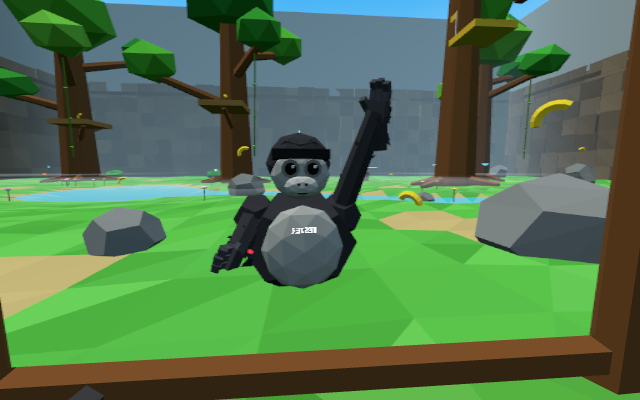
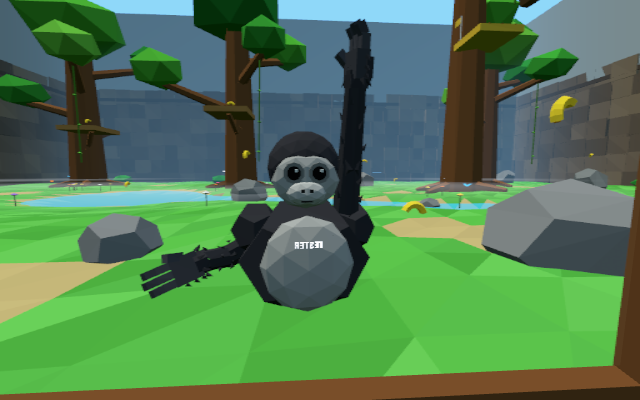
Joined IK arms with elbows + 10 cm hand drop, rounded head, even sky colour with night stars, wrist panel toggled by left stick click

diff --git a/main.js b/main.js
@@ -12,6 +12,10 @@ const rr = (a, b) => a + (b - a) * rnd();
 // ---------- constants ----------
 const HALF = 25, WALL_H = 18, CLIMB_H = 9;           // 50x50 clearing, wall 18 m, bottom 9 m climbable
 const HR = 0.07;                                     // hand collider radius
+const HAND_DROP = 0.1;                               // virtual hand (and its collider) sits 10 cm below the real controller: easier to reach the ground
+const ARM_L1 = 0.37, ARM_L2 = 0.37;                  // gorilla upper arm / forearm (IK bones)
+const SHOULDER = { x: 0.25, y: -0.4, z: 0.03 };      // shoulder joint relative to the head (yaw frame)
+const WRIST_LOCAL = new V3(0, 0, 0.072); // wrist point in hand (grip) space
 const BODY_OFF = 0.55, BODY_R = 0.35, HEAD_R = 0.18; // body sphere centre below head
 const GRAV = 9.8, MAX_JUMP = 7.0, VEL_MULT = 1.15;
 const WATER_Y = -0.12;
@@ -301,14 +305,16 @@ for (const [pos, yaw] of [[new V3(-6.3, 1.7, -4.6), 0.55], [new V3(-6.6, 8.1, -7
 }
 const worldMesh = new THREE.Mesh(world.build(), worldMat); scene.add(worldMesh);
 
-// ---------- sky, sun, moon, mist, fireflies ----------
-const skyMat = new THREE.ShaderMaterial({
-  side: THREE.BackSide, depthWrite: false, fog: false,
-  uniforms: { top: { value: new C3() }, hor: { value: new C3() } },
-  vertexShader: 'varying float h;void main(){h=normalize(position).y;gl_Position=projectionMatrix*modelViewMatrix*vec4(position,1.);}',
-  fragmentShader: 'varying float h;uniform vec3 top;uniform vec3 hor;void main(){gl_FragColor=vec4(mix(hor,top,smoothstep(0.,.55,h)),1.);}',
-});
-const sky = new THREE.Mesh(new THREE.SphereGeometry(300, 16, 10), skyMat); sky.renderOrder = -1; scene.add(sky);
+// ---------- sky colour, stars, sun, moon, mist, fireflies ----------
+// sky: one even colour per moment (scene.background, identical to the fog colour, so fogged far walls melt into it: no bands, corners or black cap)
+// stars: a few hundred points far beyond everything (no fog), faded in at dusk, out at dawn
+const starMat = new THREE.PointsMaterial({ size: 3, sizeAttenuation: false, vertexColors: true, transparent: true, opacity: 0, depthWrite: false, fog: false });
+const stars = (() => {
+  const n = 420, p = [], c = []; let h = 4242; const r = () => (h = (h * 16807) % 2147483647) / 2147483647;
+  for (let i = 0; i < n; i++) { const y = 0.04 + 0.96 * Math.sqrt(r()), ph = r() * Math.PI * 2, rr = Math.sqrt(1 - y * y), k = 0.55 + 0.45 * r(); p.push(Math.cos(ph) * rr * 250, y * 250, Math.sin(ph) * rr * 250); c.push(k, k, k * (0.92 + 0.08 * r())); }
+  const g = new THREE.BufferGeometry(); g.setAttribute('position', new THREE.Float32BufferAttribute(p, 3)); g.setAttribute('color', new THREE.Float32BufferAttribute(c, 3));
+  const m = new THREE.Points(g, starMat); m.frustumCulled = false; m.renderOrder = -1; m.visible = false; scene.add(m); return m;
+})();
 const sun = new THREE.Mesh(new THREE.IcosahedronGeometry(9, 1), new THREE.MeshBasicMaterial({ color: 0xfff3b0, fog: false })); scene.add(sun);
 const moon = new THREE.Mesh(new THREE.IcosahedronGeometry(6, 1), new THREE.MeshBasicMaterial({ color: 0xe6ecff, fog: false })); scene.add(moon);
 const mistTex = (() => { const c = document.createElement('canvas'); c.width = c.height = 64; const x = c.getContext('2d'); const gr = x.createRadialGradient(32, 32, 0, 32, 32, 32); gr.addColorStop(0, 'rgba(255,255,255,1)'); gr.addColorStop(1, 'rgba(255,255,255,0)'); x.fillStyle = gr; x.fillRect(0, 0, 64, 64); return new THREE.CanvasTexture(c); })();
@@ -425,7 +431,7 @@ function mirrorX(geo) { // right-hand copy of a left-hand model (flip x, keep tr
   for (let i = 0; i < p.length; i += 3) { p[i] = -p[i]; n[i] = -n[i]; }
   g.computeBoundingSphere(); return g;
 }
-// Hand in WebXR grip space (left hand): palm faces +x, fingers wrap forward (-z), thumb on top, forearm back (+z).
+// Hand in WebXR grip space (left hand): palm faces +x, fingers wrap forward (-z), thumb on top, wrist at +z (the IK forearm joins there).
 function buildHand() {
   const gb = new GorillaBuilder(); gb.h = 777; const SKIN = new C3(2.1, 2.1, 2.1), SKIN2 = new C3(1.7, 1.7, 1.7); // palm/fingers a shade lighter than the fur
   gb.add(new THREE.BoxGeometry(0.06, 0.11, 0.105), SKIN2, M4(new V3(0.002, 0, -0.01)), 1, 0.06);           // palm
@@ -435,14 +441,7 @@ function buildHand() {
     gb.add(new THREE.BoxGeometry(0.034, 0.03, 0.045), SKIN2, M4(new V3(0.008, y, -0.075 - len), EUL(0, -0.55, 0)), 1, 0.08);
   }
   gb.add(new THREE.BoxGeometry(0.034, 0.034, 0.07), SKIN, M4(new V3(0.03, 0.062, -0.04), EUL(0.3, -0.7, 0)), 1, 0.06); // thumb
-  const fa = new V3(0, -0.22, 1).normalize();
-  gb.add(new THREE.CylinderGeometry(0.05, 0.06, 0.17, 7, 1, true), FUR, M4(fa.clone().multiplyScalar(0.11), qFromTo(UP, fa)), 1, 0.1); // forearm
-  for (let i = 0; i < 16; i++) {                                                                         // short fur tufts, swept back along the forearm
-    const t = 0.05 + 0.15 * gb.noise(), ang = Math.PI * (0.45 + 1.1 * gb.noise());
-    const radial = new V3(Math.cos(ang), Math.sin(ang) * 0.9 - 0.15, 0).normalize();
-    const at = fa.clone().multiplyScalar(t).addScaledVector(radial, 0.048);
-    tuft(gb, at, radial.clone().multiplyScalar(0.55).addScaledVector(fa, 1), 0.03 + 0.015 * gb.noise(), 0.011);
-  }
+  gb.add(new THREE.CylinderGeometry(0.052, 0.05, 0.05, 7, 1, true).rotateX(Math.PI / 2), FUR, M4(new V3(0, 0, 0.05)), 1, 0.08); // wrist stub (forearm overlaps it)
   for (const [y, z] of [[0.035, 0.02], [-0.03, 0.025], [0.0, -0.02], [0.04, -0.03], [-0.04, -0.025]]) tuft(gb, new V3(-0.042, y, z), new V3(-0.6, 0.15, 1), 0.026, 0.01);
   for (let i = 0; i < 7; i++) { const ang = i / 7 * Math.PI * 2 + 0.3, r = new V3(Math.cos(ang) * 0.75, Math.sin(ang), 0); tuft(gb, new V3(0, 0, 0.045).addScaledVector(r, 0.055), r.clone().multiplyScalar(0.8).add(new V3(0, 0, 0.9)), 0.032, 0.012); } // shaggy wrist cuff
   for (const z of [-0.035, 0.0, 0.03]) tuft(gb, new V3(-0.01, -0.058, z), new V3(-0.2, -1, 0.8), 0.028, 0.011); // hair along the outer edge
@@ -457,9 +456,7 @@ const gorillaGeo = (() => {
   for (let i = 0; i < 9; i++) { const a = -0.9 + 1.8 * i / 8; tuft(body, new V3(Math.sin(a) * 0.3, 0.26 - Math.abs(a) * 0.08, 0.1 + Math.cos(a) * 0.12), new V3(Math.sin(a), 0.6, 0.8), 0.06, 0.022); }
   // head: big rounded fur dome, darker brow, light grey face plate, round eye rings, big dark eyes, muzzle with nostrils, small mouth
   const head = new GorillaBuilder(); head.h = 57;
-  head.add(new THREE.IcosahedronGeometry(0.175, 1), FUR, M4(new V3(0, 0.025, 0.02), null, new V3(1.05, 0.98, 1.0)), 1, 0.07);
-  head.add(new THREE.DodecahedronGeometry(0.09, 0), FUR, M4(new V3(0, 0.11, 0.0), null, new V3(1.5, 0.8, 1.4)), 1, 0.07); // crown
-  head.add(new THREE.BoxGeometry(0.29, 0.05, 0.08), FUR_DARK, M4(new V3(0, 0.085, -0.125), EUL(0.2, 0, 0)), 1, 0.05);      // brow ridge
+  head.add(new THREE.IcosahedronGeometry(0.175, 2), FUR, M4(new V3(0, 0.03, 0.02), null, new V3(1.05, 1.03, 1.0)), 1, 0.05); // smooth rounded dome (no cap-like brow band)
   head.add(new THREE.IcosahedronGeometry(0.12, 1), PLATE, M4(new V3(0, -0.02, -0.115), null, new V3(1.3, 1.08, 0.52)), 0, 0.03); // face plate
   for (const sx of [-1, 1]) {
     head.add(new THREE.CylinderGeometry(0.047, 0.047, 0.02, 10), RING, M4(new V3(0.055 * sx, 0.02, -0.165), EUL(Math.PI / 2, 0, 0)), 0, 0.02);
@@ -470,11 +467,18 @@ const gorillaGeo = (() => {
   for (const sx of [-1, 1]) head.add(new THREE.BoxGeometry(0.016, 0.012, 0.012), HOLE, M4(new V3(0.018 * sx, -0.052, -0.215)), 0, 0); // nostrils
   head.add(new THREE.BoxGeometry(0.05, 0.008, 0.012), HOLE, M4(new V3(0, -0.098, -0.205)), 0, 0); // mouth
   // arms: long and chunky, with tufts (unit length along +z, scaled to reach the hand)
-  const arm = new GorillaBuilder(); arm.h = 99;
-  arm.add(new THREE.CylinderGeometry(0.068, 0.09, 1, 7, 1, true).translate(0, 0.5, 0).rotateX(Math.PI / 2), FUR, null, 1, 0.08);
-  for (let i = 0; i < 10; i++) { const a = i * 2.4, z = 0.12 + 0.07 * i, r = new V3(Math.cos(a), Math.sin(a), 0); tuft(arm, r.clone().multiplyScalar(0.07).setZ(z), r.clone().multiplyScalar(0.6).setZ(1), 0.045, 0.016); }
-  const handL = buildHand().scale(1.2, 1.2, 1.2); // big gorilla hands
-  return { body: body.build(), head: head.build().scale(1.22, 1.22, 1.22), arm: arm.build(), hand: handL, handL, handR: mirrorX(handL) };
+  // arms: upper arm (shoulder ball -> elbow) and forearm (elbow ball -> wrist), built at nominal length along +z, posed by two-bone IK
+  const upper = new GorillaBuilder(); upper.h = 99;
+  upper.add(new THREE.DodecahedronGeometry(0.088, 0), FUR, null, 1, 0.06);
+  upper.add(new THREE.CylinderGeometry(0.074, 0.09, ARM_L1 + 0.04, 7, 1, true).translate(0, (ARM_L1 + 0.04) / 2 - 0.02, 0).rotateX(Math.PI / 2), FUR, null, 1, 0.08);
+  for (let i = 0; i < 9; i++) { const a = i * 2.4, z = 0.05 + (ARM_L1 - 0.08) * i / 8, r = new V3(Math.cos(a), Math.sin(a), 0); tuft(upper, r.clone().multiplyScalar(0.078).setZ(z), r.clone().multiplyScalar(0.6).setZ(1), 0.045, 0.016); }
+  const fore = new GorillaBuilder(); fore.h = 101;
+  fore.add(new THREE.DodecahedronGeometry(0.08, 0), FUR, M4(null, null, new V3(1, 1, 1.1)), 1, 0.06); // elbow
+  fore.add(new THREE.CylinderGeometry(0.057, 0.074, ARM_L2 + 0.05, 7, 1, true).translate(0, (ARM_L2 + 0.05) / 2, 0).rotateX(Math.PI / 2), FUR, null, 1, 0.08); // runs 5 cm into the hand
+  for (let i = 0; i < 9; i++) { const a = i * 2.4 + 1, z = 0.05 + (ARM_L2 - 0.1) * i / 8, r = new V3(Math.cos(a), Math.sin(a), 0); tuft(fore, r.clone().multiplyScalar(0.068 - 0.03 * z).setZ(z), r.clone().multiplyScalar(0.6).setZ(1), 0.04, 0.014); }
+  for (const a of [0.6, 2.2, 3.8, 5.3]) tuft(fore, new V3(Math.cos(a) * 0.05, Math.sin(a) * 0.05, -0.05), new V3(Math.cos(a) * 0.5, Math.sin(a) * 0.5, -1), 0.04, 0.016); // shaggy elbow
+  const handL = buildHand().scale(1.3, 1.3, 1.3); // big gorilla hands
+  return { body: body.build(), head: head.build().scale(1.22, 1.22, 1.22), upper: upper.build(), fore: fore.build(), hand: handL, handL, handR: mirrorX(handL) };
 })();
 function gorillaMat(color) {
   const m = new THREE.MeshLambertMaterial({ vertexColors: true, flatShading: true, color });
@@ -501,31 +505,47 @@ function nameSprite(text) {
   s.userData.set(text); return s;
 }
 const _qFlipY = new Q().setFromAxisAngle(UP, Math.PI);
+// two-bone IK: shoulder -> elbow -> wrist. Elbow bends outward/back/down (pole), stretches uniformly past full reach, never flips for close hands.
+const _ik = { dir: new V3(), perp: new V3(), pole: new V3(), S: new V3(), W: new V3(), E: new V3(), off: new V3() };
+function solveElbow(S, T, pole, out) {
+  const dir = _ik.dir.subVectors(T, S); let d = dir.length(); if (d < 1e-5) { dir.set(0, -1, 0); d = 1e-5; } else dir.divideScalar(d);
+  const k = Math.max(1, d / (ARM_L1 + ARM_L2)), a1 = ARM_L1 * k, a2 = ARM_L2 * k;
+  const dc = Math.max(Math.abs(a1 - a2) + 0.08, Math.min(d, a1 + a2 - 1e-4));
+  const a = (a1 * a1 - a2 * a2 + dc * dc) / (2 * dc), h = Math.sqrt(Math.max(0, a1 * a1 - a * a));
+  const perp = _ik.perp.copy(pole).addScaledVector(dir, -pole.dot(dir));
+  if (perp.lengthSq() < 1e-3) { perp.set(0, -1, 0).addScaledVector(dir, dir.y); if (perp.lengthSq() < 1e-4) perp.set(1, 0, 0); }
+  perp.normalize();
+  return out.copy(S).addScaledVector(dir, a).addScaledVector(perp, h);
+}
+function boneTo(m, a, b, L) { m.position.copy(a); m.scale.set(1, 1, Math.max(0.03, a.distanceTo(b)) / L); m.lookAt(b); }
+// pose one whole arm (upper, fore, hand) from the head pose (yaw quat yq), the hand position h and optional hand rotation q
+function poseArm(i, upper, fore, hand, head, yq, h, q) {
+  const sx = i ? 1 : -1, S = _ik.S.copy(_ik.off.set(SHOULDER.x * sx, SHOULDER.y, SHOULDER.z).applyQuaternion(yq)).add(head), W = _ik.W;
+  if (q) W.copy(WRIST_LOCAL).applyQuaternion(q).add(h);
+  else { const d = _ik.dir.subVectors(h, S); if (d.lengthSq() < 1e-6) d.set(0, -1, 0); d.normalize(); W.copy(h).addScaledVector(d, -WRIST_LOCAL.z); }
+  const E = solveElbow(S, W, _ik.pole.set(0.9 * sx, -0.55, 0.6).applyQuaternion(yq), _ik.E);
+  boneTo(upper, S, E, ARM_L1); boneTo(fore, E, W, ARM_L2);
+  if (hand) { hand.position.copy(h); if (q) hand.quaternion.copy(q); else hand.quaternion.copy(fore.quaternion).multiply(_qFlipY); } // no hand rotation sent: fingers continue the forearm
+}
 function makeGorilla(color, name) {
   const mat = gorillaMat(color);
   const g = { mat, color: new C3(color), group: new THREE.Group(), it: false };
   g.body = new THREE.Mesh(gorillaGeo.body, mat); g.head = new THREE.Mesh(gorillaGeo.head, mat);
   g.hands = [new THREE.Mesh(gorillaGeo.handL, mat), new THREE.Mesh(gorillaGeo.handR, mat)];
-  g.arms = [new THREE.Mesh(gorillaGeo.arm, mat), new THREE.Mesh(gorillaGeo.arm, mat)];
+  g.arms = [new THREE.Mesh(gorillaGeo.upper, mat), new THREE.Mesh(gorillaGeo.upper, mat)];
+  g.fores = [new THREE.Mesh(gorillaGeo.fore, mat), new THREE.Mesh(gorillaGeo.fore, mat)];
   g.tag = nameSprite(name);
   g.tag.position.set(0, 0.15, -0.352); g.tag.rotation.set(0, Math.PI, 0); // on the upper chest, facing forward (-z)
   g.body.add(g.tag);
-  g.group.add(g.body, g.head, ...g.hands, ...g.arms); scene.add(g.group);
+  g.group.add(g.body, g.head, ...g.hands, ...g.arms, ...g.fores); scene.add(g.group);
   g.setColor = c => { g.color.set(c); g.apply(g.it); };
   g.apply = it => { g.it = it; mat.color.copy(it ? LAVA : g.color); mat.emissive.set(it ? 0xff2200 : 0x000000); mat.emissiveIntensity = it ? 0.55 : 0; g.tag.userData.set(g.tag.userData.text, it); };
-  const yq = new Q(), sh = new V3(), e = new THREE.Euler(), d = new V3(), ye = new THREE.Euler(), off = new V3();
+  const yq = new Q(), e = new THREE.Euler(), ye = new THREE.Euler();
   g.pose = (head, hq, hl, hr, ql, qr) => {
     e.setFromQuaternion(hq, 'YXZ'); yq.setFromEuler(ye.set(0, e.y, 0));
     g.head.position.copy(head); g.head.quaternion.copy(hq);
     g.body.position.copy(head); g.body.position.y -= BODY_OFF - 0.05; g.body.quaternion.copy(yq);
-    [hl, hr].forEach((h, i) => {
-      g.hands[i].position.copy(h);
-      sh.copy(off.set(i ? 0.29 : -0.29, -0.3, 0).applyQuaternion(yq)).add(head);
-      const len = Math.max(0.05, d.subVectors(h, sh).length());
-      g.arms[i].position.copy(sh); g.arms[i].scale.set(1, 1, len); g.arms[i].lookAt(h);
-      const q = i ? qr : ql;
-      if (q) g.hands[i].quaternion.copy(q); else g.hands[i].quaternion.copy(g.arms[i].quaternion).multiply(_qFlipY); // no hand rotation sent: fingers point along the arm
-    });
+    poseArm(0, g.arms[0], g.fores[0], g.hands[0], head, yq, hl, ql); poseArm(1, g.arms[1], g.fores[1], g.hands[1], head, yq, hr, qr);
   };
   g.dispose = () => { scene.remove(g.group); mat.dispose(); g.tag.material.map.dispose(); g.tag.material.dispose(); g.tag.geometry.dispose(); };
   return g;
@@ -541,12 +561,17 @@ const ME = {
 const handMat = gorillaMat(ME.color); // first-person hands: palm, 3 fingers + thumb, furry forearm
 const myHands = [new THREE.Mesh(gorillaGeo.handL, handMat), new THREE.Mesh(gorillaGeo.handR, handMat)];
 myHands.forEach(h => scene.add(h));
+// first-person arms (upper arm + elbow + forearm joined to the hand), on their own layer so the mirror shows the full avatar instead
+const FP_LAYER = 6; camera.layers.enable(FP_LAYER);
+const myArms = [0, 1].map(() => { const u = new THREE.Mesh(gorillaGeo.upper, handMat), f = new THREE.Mesh(gorillaGeo.fore, handMat); u.layers.set(FP_LAYER); f.layers.set(FP_LAYER); scene.add(u, f); return { u, f }; });
+const _fpE = new THREE.Euler(), _fpY = new THREE.Euler(), _fpQ = new Q();
 const wristCv = document.createElement('canvas'); wristCv.width = 256; wristCv.height = 128;
 const wristTex = new THREE.CanvasTexture(wristCv); wristTex.colorSpace = THREE.SRGBColorSpace;
 const wrist = new THREE.Mesh(new THREE.PlaneGeometry(0.14, 0.07), new THREE.MeshBasicMaterial({ map: wristTex, fog: false }));
 wrist.position.set(0, 0.05, 0.1); wrist.rotation.x = -Math.PI / 2 + 0.35; myHands[0].add(wrist);
 const muteBtn = new THREE.Mesh(new THREE.CylinderGeometry(0.018, 0.018, 0.012, 10), new THREE.MeshBasicMaterial({ color: 0x33dd55, fog: false }));
 muteBtn.position.set(0.055, 0.045, 0.06); myHands[0].add(muteBtn);
+wrist.visible = muteBtn.visible = false; // hidden until the left thumbstick is clicked
 
 // ---------- input: real WebXR, desktop fallback, or scripted fake XR for tests ----------
 const DESK = { yaw: 0, pitch: -0.15, keys: new Set(), ph: 0, cph: 0, jumpT: 9, jumpLatch: false };
@@ -563,9 +588,10 @@ function readVR(frame) {
     const gp = frame.getPose(src.gripSpace, ref); if (!gp) continue;
     const p = gp.transform.position, o = gp.transform.orientation;
     inp.hands[i].p.set(p.x, p.y, p.z); inp.hands[i].q.set(o.x, o.y, o.z, o.w);
-    const b = src.gamepad && src.gamepad.buttons; inp.hands[i].grip = !!(b && b[1] && b[1].value > 0.5); inp.hands[i].src = src; found[i] = true;
+    const b = src.gamepad && src.gamepad.buttons; inp.hands[i].grip = !!(b && b[1] && b[1].value > 0.5); inp.hands[i].stick = !!(b && b[3] && b[3].pressed); inp.hands[i].src = src; found[i] = true;
   }
   for (let i = 0; i < 2; i++) if (!found[i]) inp.hands[i].p.copy(inp.head).add(new V3(i ? 0.25 : -0.25, -0.7, -0.2));
+  for (const h of inp.hands) h.p.y -= HAND_DROP; // virtual hand hangs a bit below the controller
   return inp;
 }
 function readDesk(dt) {
@@ -601,7 +627,8 @@ function readDesk(dt) {
 function readFake() {
   const f = MM.fake, inp = emptyInput();
   inp.head.fromArray(f.head || [0, 1.6, 0]); if (f.headQ) inp.headQ.fromArray(f.headQ);
-  for (let i = 0; i < 2; i++) { const h = f.hands && f.hands[i]; if (h) { inp.hands[i].p.fromArray(h.p); inp.hands[i].grip = !!h.grip; if (h.q) inp.hands[i].q.fromArray(h.q); } }
+  for (let i = 0; i < 2; i++) { const h = f.hands && f.hands[i]; if (h) { inp.hands[i].p.fromArray(h.p); inp.hands[i].grip = !!h.grip; if (h.q) inp.hands[i].q.fromArray(h.q); inp.hands[i].stick = !!h.stick; } }
+  for (const h of inp.hands) h.p.y -= HAND_DROP; // same offset as real controllers
   return inp;
 }
 
@@ -873,8 +900,8 @@ function tagCheck(handsW) {
 
 // ---------- day / night (10 min cycle from a shared clock) ----------
 const DAY = { phase: 0, day: 1 };
-const C_TOP_D = new C3('#3fa2f2'), C_HOR_D = new C3('#c4ecff'), C_TOP_N = new C3('#070b24'), C_HOR_N = new C3('#18264a'), C_DUSK = new C3('#ff9a5a');
-const _ct = new C3(), _ch = new C3(), _sd = new V3();
+const C_SKY_D = new C3('#86c8f6'), C_SKY_N = new C3('#1b2a56'), C_DUSK = new C3('#ff9a5a'); // day: the old zenith/horizon blend as one colour; night: dark navy, never black
+const _ch = new C3(), _sd = new V3();
 function dayPhase() { return MM.timeOverride != null ? MM.timeOverride : ((((Date.now() + NET.clockOff) / 1000) % CYCLE) + CYCLE) % CYCLE / CYCLE; }
 function updateSky(camPos) {
   const ph = dayPhase(), a = ph * Math.PI * 2, s = Math.sin(a);
@@ -883,8 +910,8 @@ function updateSky(camPos) {
   _sd.set(Math.cos(a), s, 0.35).normalize();
   sun.position.copy(camPos).addScaledVector(_sd, 160); moon.position.copy(camPos).addScaledVector(_sd, -160);
   sun.visible = s > -0.15; moon.visible = s < 0.15;
-  _ct.copy(C_TOP_N).lerp(C_TOP_D, day); _ch.copy(C_HOR_N).lerp(C_HOR_D, day).lerp(C_DUSK, dusk);
-  skyMat.uniforms.top.value.copy(_ct); skyMat.uniforms.hor.value.copy(_ch); sky.position.copy(camPos);
+  _ch.copy(C_SKY_N).lerp(C_SKY_D, day).lerp(C_DUSK, dusk * 0.75);
+  starMat.opacity = clamp(1 - day * 2.2, 0, 1); stars.visible = starMat.opacity > 0.01; stars.position.copy(camPos);
   scene.fog.color.copy(_ch); scene.background = scene.fog.color;
   sunLight.position.copy(_sd).multiplyScalar(s > 0 ? 30 : -30);
   sunLight.color.set(0xb8c8ff).lerp(new C3(0xfff0d0), day).lerp(C_DUSK, dusk * 0.5); sunLight.intensity = 0.35 + 1.75 * day;
@@ -995,9 +1022,13 @@ function update(dt, frame) {
     else if (!h.vine) { const q = nearest(handsW[i], 0.2); if (q.col && q.d < HR) handsW[i].addScaledVector(normalOf(q.col, handsW[i]), HR - q.d); }
     myHands[i].position.copy(handsW[i]); myHands[i].quaternion.copy(inp.hands[i].q);
   }
-  // wrist mute button: touch it with the right hand
+  _fpE.setFromQuaternion(inp.headQ, 'YXZ'); _fpQ.setFromEuler(_fpY.set(0, _fpE.y, 0));
+  for (let i = 0; i < 2; i++) poseArm(i, myArms[i].u, myArms[i].f, null, headW, _fpQ, handsW[i], inp.hands[i].q);
+  // left thumbstick click (edge) shows/hides the wrist info panel and its mic dot
+  const stick = !!inp.hands[0].stick; if (stick && !MM._stickPrev) { wrist.visible = muteBtn.visible = !wrist.visible; wristDirty = true; } MM._stickPrev = stick;
+  // wrist mute button: touch it with the right hand (only while the panel is shown)
   myHands[0].updateMatrixWorld(true); muteBtn.getWorldPosition(_bw);
-  const near = handsW[1].distanceTo(_bw) < 0.05;
+  const near = muteBtn.visible && handsW[1].distanceTo(_bw) < 0.05;
   if (near && !MM._btnLatch && now - (MM._btnT || 0) > 600) { setMute(!VOICE.muted); MM._btnT = now; }
   MM._btnLatch = near;
   const feet = headW.clone(); feet.y -= BODY_OFF + BODY_R;
@@ -1047,7 +1078,7 @@ MM.place = (x, y, z) => { const inp = MM.fake ? readFake() : emptyInput(); rig.p
 MM.headW = () => (lastInp ? lastInp.head.clone() : new V3(0, 1.6, 0)).add(rig.position);
 MM.handsW = () => handsW.map(h => h.toArray());
 MM.muteBtnW = () => { myHands[0].updateMatrixWorld(true); return muteBtn.getWorldPosition(new V3()).toArray(); };
-MM.myHands = myHands;
+MM.myHands = myHands; MM.wristShown = () => wrist.visible && muteBtn.visible; MM.skyColor = () => scene.background.getHexString(); MM.starsOp = () => (stars.visible ? starMat.opacity : 0); MM.stars = stars; MM.myArms = myArms; MM.HAND_DROP = HAND_DROP; MM.ARM = { L1: ARM_L1, L2: ARM_L2, SHOULDER, WRIST_LOCAL };
 MM.setMute = setMute; MM.joinNet = joinNet; MM.startAudio = startAudio; MM.AU = AU; MM.startVoice = startVoice;
 MM.renderInfo = () => ({ calls: renderer.info.render.calls, triangles: renderer.info.render.triangles, geometries: renderer.info.memory.geometries });
 MM.remoteList = () => [...NET.remotes.values()].map(r => ({ id: r.id, name: r.name, tag: r.avatar.tag.userData.text, color: r.color, visible: r.avatar.group.visible, head: r.headPos.toArray(), it: NET.infected.has(r.id), voice: !!r.voice, pannerPos: r.voice ? [r.voice.pn.positionX.value, r.voice.pn.positionY.value, r.voice.pn.positionZ.value] : null }));

diff --git a/test/t.js b/test/t.js
@@ -19,7 +19,7 @@ const HELPERS = () => {
       return maxY;
     },
     hw(i) { return MM.handsW()[i]; },
-    handTo(i, w) { const P = MM.rig.position; const f = MM.fake; f.hands[i].p = [w[0] - P.x, w[1] - P.y, w[2] - P.z]; },
+    handTo(i, w) { const P = MM.rig.position; const f = MM.fake; f.hands[i].p = [w[0] - P.x, w[1] - P.y + MM.HAND_DROP, w[2] - P.z]; }, // fake = controller pose; virtual hand sits HAND_DROP lower
   };
 };
 
@@ -80,7 +80,7 @@ const LOCAL_TRANSPORT = () => {
       T.run(0.3, t => { const z = -0.45 + (t / 0.3) * 0.9; T.set([-0.25, -0.98, z], [0.25, -0.98, z]); });
       T.set([-0.25, -0.55, 0.45], [0.25, -0.55, 0.45]); T.run(0.12);
     }
-    T.idle(); T.run(0.8); out.z1 = MM.headW().z;
+    T.idle(); T.run(1.8); out.z1 = MM.headW().z; // lower virtual hands push a bit longer: let the glide settle
     // arms idle, no input: must not move
     const z2 = MM.headW().z; T.run(1); out.drift = Math.abs(MM.headW().z - z2);
     // push down hard = jump
@@ -91,6 +91,16 @@ const LOCAL_TRANSPORT = () => {
   });
   ok(loco.z0 - loco.z1 > 1.5, `hand-push locomotion moves the player forward ${(loco.z0 - loco.z1).toFixed(2)} m in 4 arm strokes`);
   ok(loco.drift < 0.02, `no movement without arm swings (drift ${loco.drift.toFixed(3)} m)`);
+  const wr = await A.p.evaluate(() => {
+    const r = {}; MM.PH.freeze = true; T.idle(); MM.step(1 / 72); r.def = MM.wristShown();
+    const click = () => { MM.fake.hands[0].stick = true; MM.step(1 / 72); const held = MM.wristShown(); MM.step(1 / 72); MM.step(1 / 72); const stillHeld = MM.wristShown(); MM.fake.hands[0].stick = false; MM.step(1 / 72); return [held, stillHeld]; };
+    // hidden: touching where the mic dot would be does nothing
+    const b = MM.muteBtnW(), P = MM.rig.position, m0 = MM.VOICE.muted; MM.fake.hands[1].p = [b[0] - P.x, b[1] - P.y + MM.HAND_DROP, b[2] - P.z]; MM.step(1 / 72); MM.step(1 / 72); r.hiddenNoMute = MM.VOICE.muted === m0; T.idle(); MM.step(1 / 72);
+    r.c1 = click(); r.c2 = click(); r.right = (() => { MM.fake.hands[1].stick = true; MM.step(1 / 72); const v = MM.wristShown(); MM.fake.hands[1].stick = false; MM.step(1 / 72); return v; })();
+    MM.PH.freeze = false; return r;
+  });
+  ok(!wr.def && wr.hiddenNoMute, 'wrist info panel and mic dot are hidden by default (and the hidden dot can\'t be bumped)');
+  ok(wr.c1[0] && wr.c1[1] && !wr.c2[0] && !wr.c2[1] && !wr.right, 'left thumbstick click toggles the wrist panel + mic dot (edge-triggered: holding doesn\'t flicker; right stick does nothing)');
   ok(loco.jump > 0.35, `push down + release launches a jump (+${loco.jump.toFixed(2)} m)`);
   const climb = await A.p.evaluate(() => {
     const r = {}; const g = MM.terrainH;
@@ -155,6 +165,7 @@ const LOCAL_TRANSPORT = () => {
     const r = {}; MM.timeOverride = 0.25; MM.render(); r.noon = { sun: MM.sunVisible(), moon: MM.moonVisible(), ff: MM.firefliesOp(), sunI: MM.sunI(), fog: MM.fogColor() };
     MM.timeOverride = 0.75; MM.render(); r.night = { sun: MM.sunVisible(), moon: MM.moonVisible(), ff: MM.firefliesOp(), sunI: MM.sunI(), fog: MM.fogColor() };
     MM.timeOverride = 0.5; MM.render(); r.dusk = MM.fogColor();
+    MM.timeOverride = 0.25; MM.render(); r.noon.sky = MM.skyColor(); r.noon.stars = MM.starsOp(); MM.timeOverride = 0.75; MM.render(); r.night.sky = MM.skyColor(); r.night.stars = MM.starsOp(); r.starR = MM.stars.geometry.boundingSphere ? MM.stars.geometry.boundingSphere.radius : (MM.stars.geometry.computeBoundingSphere(), MM.stars.geometry.boundingSphere.radius); r.starN = MM.stars.geometry.attributes.position.count; r.far = MM.camera.far; r.fogFar = MM.scene.fog.far; MM.timeOverride = 0.5; MM.render(); r.duskSky = MM.skyColor(); r.duskStars = MM.starsOp(); r.skyMeshes = 0; MM.scene.traverse(o => { if (o.isMesh && o.material && o.material.side === MM.THREE.BackSide) r.skyMeshes++; });
     r.additiveMeshes = []; MM.scene.traverse(o => { if (o.isMesh && o.material && o.material.blending === MM.THREE.AdditiveBlending) r.additiveMeshes.push(o.geometry.type); }); r.raysApi = typeof MM.raysOp;
     MM.timeOverride = null; MM.render(); r.phase = MM.DAY.phase; r.expected = ((Date.now() / 1000) % 600) / 600;
     const b0 = MM.birdPos(), u0 = MM.butterPos(); const t0 = performance.now(); while (performance.now() - t0 < 300) { } MM.render(); r.birdMoved = Math.hypot(...MM.birdPos().map((v, i) => v - b0[i])); r.butterMoved = Math.hypot(...MM.butterPos().map((v, i) => v - u0[i])); r.birdY = b0[1];
@@ -163,6 +174,11 @@ const LOCAL_TRANSPORT = () => {
   ok(daynight.noon.sun && !daynight.noon.moon && daynight.noon.ff === 0 && daynight.night.moon && !daynight.night.sun && daynight.night.ff > 0.9, 'day/night: sun by day; moon + glowing fireflies at night');
   ok(daynight.additiveMeshes.length === 0 && daynight.raysApi === 'undefined', `sun shafts / god rays removed (additive meshes in scene: ${daynight.additiveMeshes.length})`);
   ok(daynight.night.sunI < daynight.noon.sunI / 3 && daynight.noon.fog !== daynight.night.fog && daynight.dusk !== daynight.noon.fog, `sky, fog and light change (sun ${daynight.noon.sunI.toFixed(2)}→${daynight.night.sunI.toFixed(2)}, fog #${daynight.noon.fog}→#${daynight.night.fog}, dusk #${daynight.dusk})`);
+  const lum = h => { const v = parseInt(h, 16); return 0.2126 * (v >> 16) + 0.7152 * (v >> 8 & 255) + 0.0722 * (v & 255); };
+  ok(daynight.skyMeshes === 0 && daynight.noon.sky === daynight.noon.fog && daynight.night.sky === daynight.night.fog && daynight.duskSky === daynight.dusk, `sky is one even colour, identical to the fog (no gradient dome / seams): noon #${daynight.noon.sky}, dusk #${daynight.duskSky}, night #${daynight.night.sky}`);
+  ok(lum(daynight.night.sky) > 25 && parseInt(daynight.night.sky.slice(4), 16) > parseInt(daynight.night.sky.slice(0, 2), 16), `night sky is dark navy, not black (#${daynight.night.sky}, luminance ${lum(daynight.night.sky).toFixed(0)}/255)`);
+  ok(daynight.night.stars > 0.9 && daynight.noon.stars === 0 && daynight.duskStars > 0.2 && daynight.duskStars < daynight.night.stars, `stars: ${daynight.starN} points, shown at night (${daynight.night.stars.toFixed(2)}), fading in at dusk (${daynight.duskStars.toFixed(2)}), hidden by day`);
+  ok(daynight.starR > daynight.fogFar * 2 && daynight.starR < daynight.far * 0.8, `stars sit beyond the world and fog (${daynight.starR.toFixed(0)} m) and inside the far plane (${daynight.far} m)`);
   ok(Math.abs(daynight.phase - daynight.expected) < 0.003, `time of day comes from the shared clock (10 min cycle), phase ${daynight.phase.toFixed(4)}`);
   ok(daynight.birdMoved > 0.1 && daynight.butterMoved > 0.02 && daynight.birdY > 14, `birds fly overhead (y≈${daynight.birdY.toFixed(1)} m) and butterflies flutter (moved ${daynight.birdMoved.toFixed(2)} / ${daynight.butterMoved.toFixed(2)} m)`);
   // audio graph: ambience sources exist and are positional
@@ -213,17 +229,49 @@ const LOCAL_TRANSPORT = () => {
   // gorilla look (Gorilla Tag style): dark fur in the player's colour, light grey face/chest plates, 3 fingers + thumb, furry forearms
   const gor = await A.p.evaluate(() => {
     const av = MM.MIRROR.avatar, tri = m => m.geometry.attributes.position.count / 3, r = {};
-    r.tris = tri(av.body) + tri(av.head) + 2 * tri(av.arms[0]) + 2 * tri(av.hands[0]); r.handTris = tri(MM.myHands[0]);
+    r.tris = tri(av.body) + tri(av.head) + 2 * tri(av.arms[0]) + 2 * tri(av.fores[0]) + 2 * tri(av.hands[0]); r.handTris = tri(MM.myHands[0]);
     const fur = m => { const f = m.geometry.attributes.fur.array; let a = 0; for (const v of f) a += v; return [a, f.length]; };
     r.headFur = fur(av.head); r.bodyFur = fur(av.body); r.handFurAll = fur(MM.myHands[0])[0] === fur(MM.myHands[0])[1];
     r.defaultColor = MM.ME.color; r.tagOnChest = av.tag.parent === av.body && av.tag.position.z < -0.3; r.tagFilter = av.tag.material.map.magFilter === MM.THREE.NearestFilter;
     r.handsDiffer = MM.myHands[0].geometry !== MM.myHands[1].geometry; const bb = new MM.THREE.Box3().setFromBufferAttribute(MM.myHands[0].geometry.attributes.position); r.handLen = bb.max.z - bb.min.z;
+    { const P = av.head.geometry.attributes.position.array, c = [0, 0.03 * 1.22, 0.02 * 1.22], R = [0.175 * 1.05 * 1.22, 0.175 * 1.03 * 1.22, 0.175 * 1.22]; let worst = 0; for (let k = 0; k < P.length; k += 3) if (P[k + 1] > 0.14) worst = Math.max(worst, Math.hypot((P[k] - c[0]) / R[0], (P[k + 1] - c[1]) / R[1], (P[k + 2] - c[2]) / R[2])); r.headBulge = worst; }
     return r;
   });
   ok(gor.headFur[0] > 0 && gor.headFur[0] < gor.headFur[1] && gor.bodyFur[0] < gor.bodyFur[1] && gor.handFurAll, `gorilla has player-coloured fur plus fixed light grey face and chest plates (head ${gor.headFur[1] - gor.headFur[0]}/${gor.headFur[1]} plate verts)`);
   ok(/^#[0-3][0-9a-f][0-3][0-9a-f][0-3][0-9a-f]$/i.test(gor.defaultColor), `default fur colour is near-black (${gor.defaultColor})`);
   ok(gor.tagOnChest && gor.tagFilter, 'name tag is pixel-style text on the gorilla\'s chest');
-  ok(gor.handsDiffer && gor.handLen > 0.3, `first-person hands: left/right models with fingers, thumb and furry forearm (${gor.handLen.toFixed(2)} m long, ${gor.handTris} tris)`);
+  ok(gor.handsDiffer && gor.handLen > 0.2, `first-person hands: left/right models with fingers and thumb (${gor.handLen.toFixed(2)} m long, ${gor.handTris} tris)`);
+  // arms: one joined limb (shoulder -> elbow -> wrist -> hand) at every reach, elbow out/back, hands hang HAND_DROP below the controller
+  const ik = await A.p.evaluate(() => {
+    const T3 = MM.THREE, V = (...a) => new T3.Vector3(...a), A = MM.ARM, r = { cases: [] };
+    MM.PH.freeze = true; MM.place(2, 0.95, 4);
+    const q = (x, y, z) => new T3.Quaternion().setFromEuler(new T3.Euler(x, y, z, 'YXZ')).toArray();
+    const poses = { sides: [[-0.75, 1.3, 0], [0.75, 1.3, 0]], ground: [[-0.3, 0.75, -0.35], [0.3, 0.75, -0.35]], raised: [[-0.3, 2.3, -0.2], [0.35, 1.1, -0.3]], overreach: [[-0.95, 1.3, -0.55], [0.85, 0.75, -0.65]], close: [[-0.1, 1.35, -0.05], [0.12, 1.25, 0.02]], behind: [[-0.3, 1.0, 0.45], [0.3, 1.0, 0.45]] };
+    for (const [name, hp] of Object.entries(poses)) {
+      MM.fake = { head: [0, 1.6, 0], headQ: q(0, 0, 0), hands: [{ p: hp[0], q: q(-0.3, 0.2, -0.4) }, { p: hp[1], q: q(-0.3, -0.2, 0.4) }] }; MM.step(1 / 72);
+      for (const [arms, hands] of [[MM.myArms.map(a => [a.u, a.f]), MM.myHands]]) for (let i = 0; i < 2; i++) {
+        const [u, f] = arms[i]; u.updateMatrixWorld(true); f.updateMatrixWorld(true); hands[i].updateMatrixWorld(true);
+        const elbowA = u.localToWorld(V(0, 0, A.L1)), elbowB = f.getWorldPosition(V()), wristA = f.localToWorld(V(0, 0, A.L2)), wristB = hands[i].localToWorld(A.WRIST_LOCAL.clone());
+        const head = MM.headW(), sx = i ? 1 : -1, el = elbowB.clone().sub(head);
+        r.cases.push({ name, i, gapElbow: elbowA.distanceTo(elbowB), gapWrist: wristA.distanceTo(wristB), out: el.x * sx, stretch: u.scale.z, finite: [elbowB.x, elbowB.y, elbowB.z].every(Number.isFinite) });
+      }
+    }
+    // controller vs virtual hand: same physics + visible position, HAND_DROP lower
+    MM.fake = { head: [0, 1.6, 0], headQ: q(0, 0, 0), hands: [{ p: [-0.3, 1.2, -0.3] }, { p: [0.3, 1.2, -0.3] }] }; MM.step(1 / 72);
+    const P = MM.rig.position; r.drop = 1.2 + P.y - MM.handsW()[0][1]; r.visSame = MM.myHands[0].position.distanceTo(V(...MM.handsW()[0])); r.HAND_DROP = MM.HAND_DROP;
+    // mirror / remote avatar arms are joined too
+    const av = MM.MIRROR.avatar; av.pose(V(0, 1.6, 0), new T3.Quaternion(), V(-0.7, 1.0, -0.4), V(0.5, 0.6, 0.1)); av.group.updateMatrixWorld(true);
+    r.avGap = Math.max(...[0, 1].map(i => av.arms[i].localToWorld(V(0, 0, A.L1)).distanceTo(av.fores[i].getWorldPosition(V()))));
+    r.avWrist = Math.max(...[0, 1].map(i => av.fores[i].localToWorld(V(0, 0, A.L2)).distanceTo(av.hands[i].getWorldPosition(V())))); // hand sits right at the forearm end
+    MM.PH.freeze = false; return r;
+  });
+  const worst = k => Math.max(...ik.cases.map(c => c[k]));
+  ok(worst('gapElbow') < 0.005 && worst('gapWrist') < 0.005 && ik.cases.every(c => c.finite), `arms are one joined limb in every pose (sides/ground/raised/overreach/close/behind): max elbow gap ${(worst('gapElbow') * 1000).toFixed(1)} mm, wrist gap ${(worst('gapWrist') * 1000).toFixed(1)} mm`);
+  ok(ik.cases.filter(c => c.name !== 'overreach').every(c => c.out > 0.08), `elbows bend outward, never flip (min elbow offset ${Math.min(...ik.cases.map(c => c.out)).toFixed(2)} m to the side)`);
+  ok(ik.cases.filter(c => c.name === 'overreach').every(c => c.stretch > 1 && c.stretch < 1.6), `over-reach stretches the arm slightly instead of detaching (x${Math.max(...ik.cases.map(c => c.stretch)).toFixed(2)})`);
+  ok(Math.abs(ik.drop - ik.HAND_DROP) < 0.003 && ik.visSame < 0.001, `virtual hand + collider hang ${(ik.drop * 100).toFixed(0)} cm below the controller, visible hand at the physics hand`);
+  ok(ik.avGap < 0.005 && ik.avWrist < 0.09, `remote/mirror gorilla arms joined: elbow gap ${(ik.avGap * 1000).toFixed(1)} mm, hand ${(ik.avWrist * 100).toFixed(1)} cm from forearm end (inside the wrist)`);
+  ok(gor.headBulge < 1.02, `head is a smooth rounded dome on top: nothing sticks out of it, no cap-peak brow (max ${gor.headBulge.toFixed(3)} of dome radius)`);
   ok(gor.tris < 3000, `whole gorilla stays Quest-friendly (${gor.tris} triangles)`);
   // screenshots (HUD hidden)
   await A.p.evaluate(() => { document.getElementById('hud').style.display = 'none'; document.getElementById('hint').style.display = 'none'; });
@@ -234,12 +282,19 @@ const LOCAL_TRANSPORT = () => {
   await shot('jungle_overview.png', [21, 15, 21], 0.78, -0.42, 0.2);
   await A.p.evaluate(() => { MM.PH.freeze = false; });
   await shot('mirror.png', [MM_MIRROR_X + 2.3, 0.95, 1.3], Math.PI / 2 - 0.3, 0.03, 0.25);
-  // close-up of the gorilla in the mirror, waving
-  await A.p.evaluate(X => { const T3 = MM.THREE, q = (x, y, z) => new T3.Quaternion().setFromEuler(new T3.Euler(x, y, z, 'YXZ')).toArray(); MM.timeOverride = 0.25; MM.PH.freeze = true; MM.fake = { head: [0, 1.6, 0], headQ: q(-0.12, Math.PI / 2 - 0.08, 0), hands: [{ p: [-0.3, 1.1, 0.38], q: q(0.2, Math.PI / 2 + 0.3, -0.4) }, { p: [-0.12, 1.95, -0.5], q: q(1.3, Math.PI / 2 - 0.2, 0.6) }] }; MM.place(X + 0.9, MM.terrainH(X + 0.9, 0.6) + 0.95, 0.7); MM.step(1 / 72); MM.render(); }, MM_MIRROR_X);
-  await A.p.screenshot({ path: SHOTS + 'gorilla_style.png' });
+  // gorilla in the mirror: arms out to the sides, down on the ground, one raised (one joined arm with an elbow)
+  const mirrorPose = async (name, hands, pitch) => { await A.p.evaluate(([X, hands, pitch]) => { const T3 = MM.THREE, q = a => new T3.Quaternion().setFromEuler(new T3.Euler(a[0], a[1], a[2], 'YXZ')).toArray(); MM.timeOverride = 0.25; MM.PH.freeze = true; MM.fake = { head: [0, 1.6, 0], headQ: q([pitch, Math.PI / 2 - 0.06, 0]), hands: hands.map(h => ({ p: h[0], q: q(h[1]) })) }; MM.place(X + 0.8, MM.terrainH(X + 0.8, 0.6) + 0.95, 0.62); MM.step(1 / 72); MM.render(); }, [MM_MIRROR_X, hands, pitch]); await A.p.screenshot({ path: SHOTS + name }); };
+  await mirrorPose('gorilla_style.png', [[[-0.2, 1.2, 0.62], [-0.3, Math.PI - 0.5, 0.3]], [[-0.18, 2.25, -0.28], [1.35, Math.PI / 2, 0.3]]], -0.1);
+  await mirrorPose('gorilla_arms_sides.png', [[[-0.1, 1.35, 0.72], [-0.15, Math.PI - 0.3, 0.6]], [[-0.1, 1.35, -0.72], [-0.15, 0.3, -0.6]]], -0.1);
+  await mirrorPose('gorilla_arms_ground.png', [[[-0.38, 0.8, 0.32], [-1.2, Math.PI / 2 + 0.3, -0.5]], [[-0.38, 0.8, -0.32], [-1.2, Math.PI / 2 - 0.3, 0.5]]], -0.25);
+  // first-person hands reaching the ground
+  await A.p.evaluate(() => { const T3 = MM.THREE, q = (x, y, z) => new T3.Quaternion().setFromEuler(new T3.Euler(x, y, z, 'YXZ')).toArray(); MM.timeOverride = 0.25; MM.PH.freeze = true; MM.fake = { head: [0, 1.6, 0], headQ: q(-0.8, 0, 0), hands: [{ p: [-0.24, 0.78, -0.42], q: q(-0.55, 0.15, -1.45) }, { p: [0.24, 0.78, -0.42], q: q(-0.55, -0.15, 1.45) }] }; MM.place(1.5, MM.terrainH(1.5, 3) + 0.95, 3); MM.step(1 / 72); MM.render(); });
+  await A.p.screenshot({ path: SHOTS + 'hands_ground.png' });
   // first-person view of your own hands (3 fingers + thumb, furry forearms)
   await A.p.evaluate(() => { const T3 = MM.THREE, q = (x, y, z) => new T3.Quaternion().setFromEuler(new T3.Euler(x, y, z, 'YXZ')).toArray(); MM.timeOverride = 0.25; MM.PH.freeze = true; MM.fake = { head: [0, 1.6, 0], headQ: q(-0.32, 0, 0), hands: [{ p: [-0.21, 1.36, -0.46], q: new T3.Quaternion().setFromEuler(new T3.Euler(-0.35, 0.35, 0, 'YXZ')).multiply(new T3.Quaternion().setFromAxisAngle(new T3.Vector3(0, 0, 1), Math.PI / 2)).multiply(new T3.Quaternion().setFromAxisAngle(new T3.Vector3(0, 1, 0), -Math.PI / 2)).toArray() }, { p: [0.21, 1.36, -0.46], q: new T3.Quaternion().setFromEuler(new T3.Euler(-0.35, -0.35, 0, 'YXZ')).multiply(new T3.Quaternion().setFromAxisAngle(new T3.Vector3(0, 0, 1), -Math.PI / 2)).multiply(new T3.Quaternion().setFromAxisAngle(new T3.Vector3(0, 1, 0), Math.PI / 2)).toArray() }] }; MM.place(1.5, 0.95, 3); MM.step(1 / 72); MM.render(); });
   await A.p.screenshot({ path: SHOTS + 'hands_fp.png' });
+  await shot('night_sky.png', [3, 0.95, 4], 0.6, 1.1, 0.75);
+  await shot('dusk_sky.png', [3, 0.95, 4], -2.3, 1.0, 0.5);
   await shot('night_fireflies.png', [2, 1.3, 6], -0.6, 0.05, 0.78);
   await shot('sunset.png', [-10, 4.5, 12], -2.4, 0.0, 0.485);
   await A.ctx.close();
@@ -287,7 +342,7 @@ const LOCAL_TRANSPORT = () => {
     ok(v[0].voice && v[1].voice && v[0].stream && v[1].stream, 'proximity voice: both mics open (getUserMedia) and each side wires the peer stream into WebAudio');
     ok(v[0].pan && Math.hypot(v[0].pan[0] - v[0].head[0], v[0].pan[2] - v[0].head[2]) < 0.5, 'voice is positional: HRTF panner follows the remote gorilla head');
     const g = d => 1.2 / (1.2 + 1.6 * (Math.max(d, 1.2) - 1.2)); ok(g(20) < 0.05 && g(2) > 0.4, `voice fades with distance (inverse model: gain ${g(2).toFixed(2)} at 2 m, ${g(10).toFixed(2)} at 10 m, ${g(20).toFixed(3)} at 20 m)`);
-    const mute = await P1.p.evaluate(() => { MM.PH.freeze = true; MM.step(1 / 72); const P = MM.rig.position; const b = MM.muteBtnW(); MM.fake.hands[1].p = [b[0] - P.x, b[1] - P.y, b[2] - P.z]; MM.step(1 / 72); MM.step(1 / 72); const r = { muted: MM.VOICE.muted, track: MM.VOICE.stream.getAudioTracks()[0].enabled }; MM.fake.hands[1].p = [0.27, 0.98, -0.2]; MM.step(1 / 72); MM.PH.freeze = false; return r; });
+    const mute = await P1.p.evaluate(() => { MM.PH.freeze = true; MM.fake.hands[0].stick = true; MM.step(1 / 72); MM.fake.hands[0].stick = false; MM.step(1 / 72); /* open the wrist panel */ const P = MM.rig.position; const b = MM.muteBtnW(); MM.fake.hands[1].p = [b[0] - P.x, b[1] - P.y + MM.HAND_DROP, b[2] - P.z]; MM.step(1 / 72); MM.step(1 / 72); const r = { muted: MM.VOICE.muted, track: MM.VOICE.stream.getAudioTracks()[0].enabled }; MM.fake.hands[1].p = [0.27, 0.98, -0.2]; MM.step(1 / 72); MM.PH.freeze = false; return r; });
     ok(mute.muted && !mute.track, 'touching the wrist mute button with the right hand mutes the mic track');
     const ph = await Promise.all([P1, P2].map(P => P.p.evaluate(() => MM.DAY.phase)));
     ok(Math.abs(ph[0] - ph[1]) < 0.002, `time of day in sync across players (${ph[0].toFixed(4)} vs ${ph[1].toFixed(4)})`);
